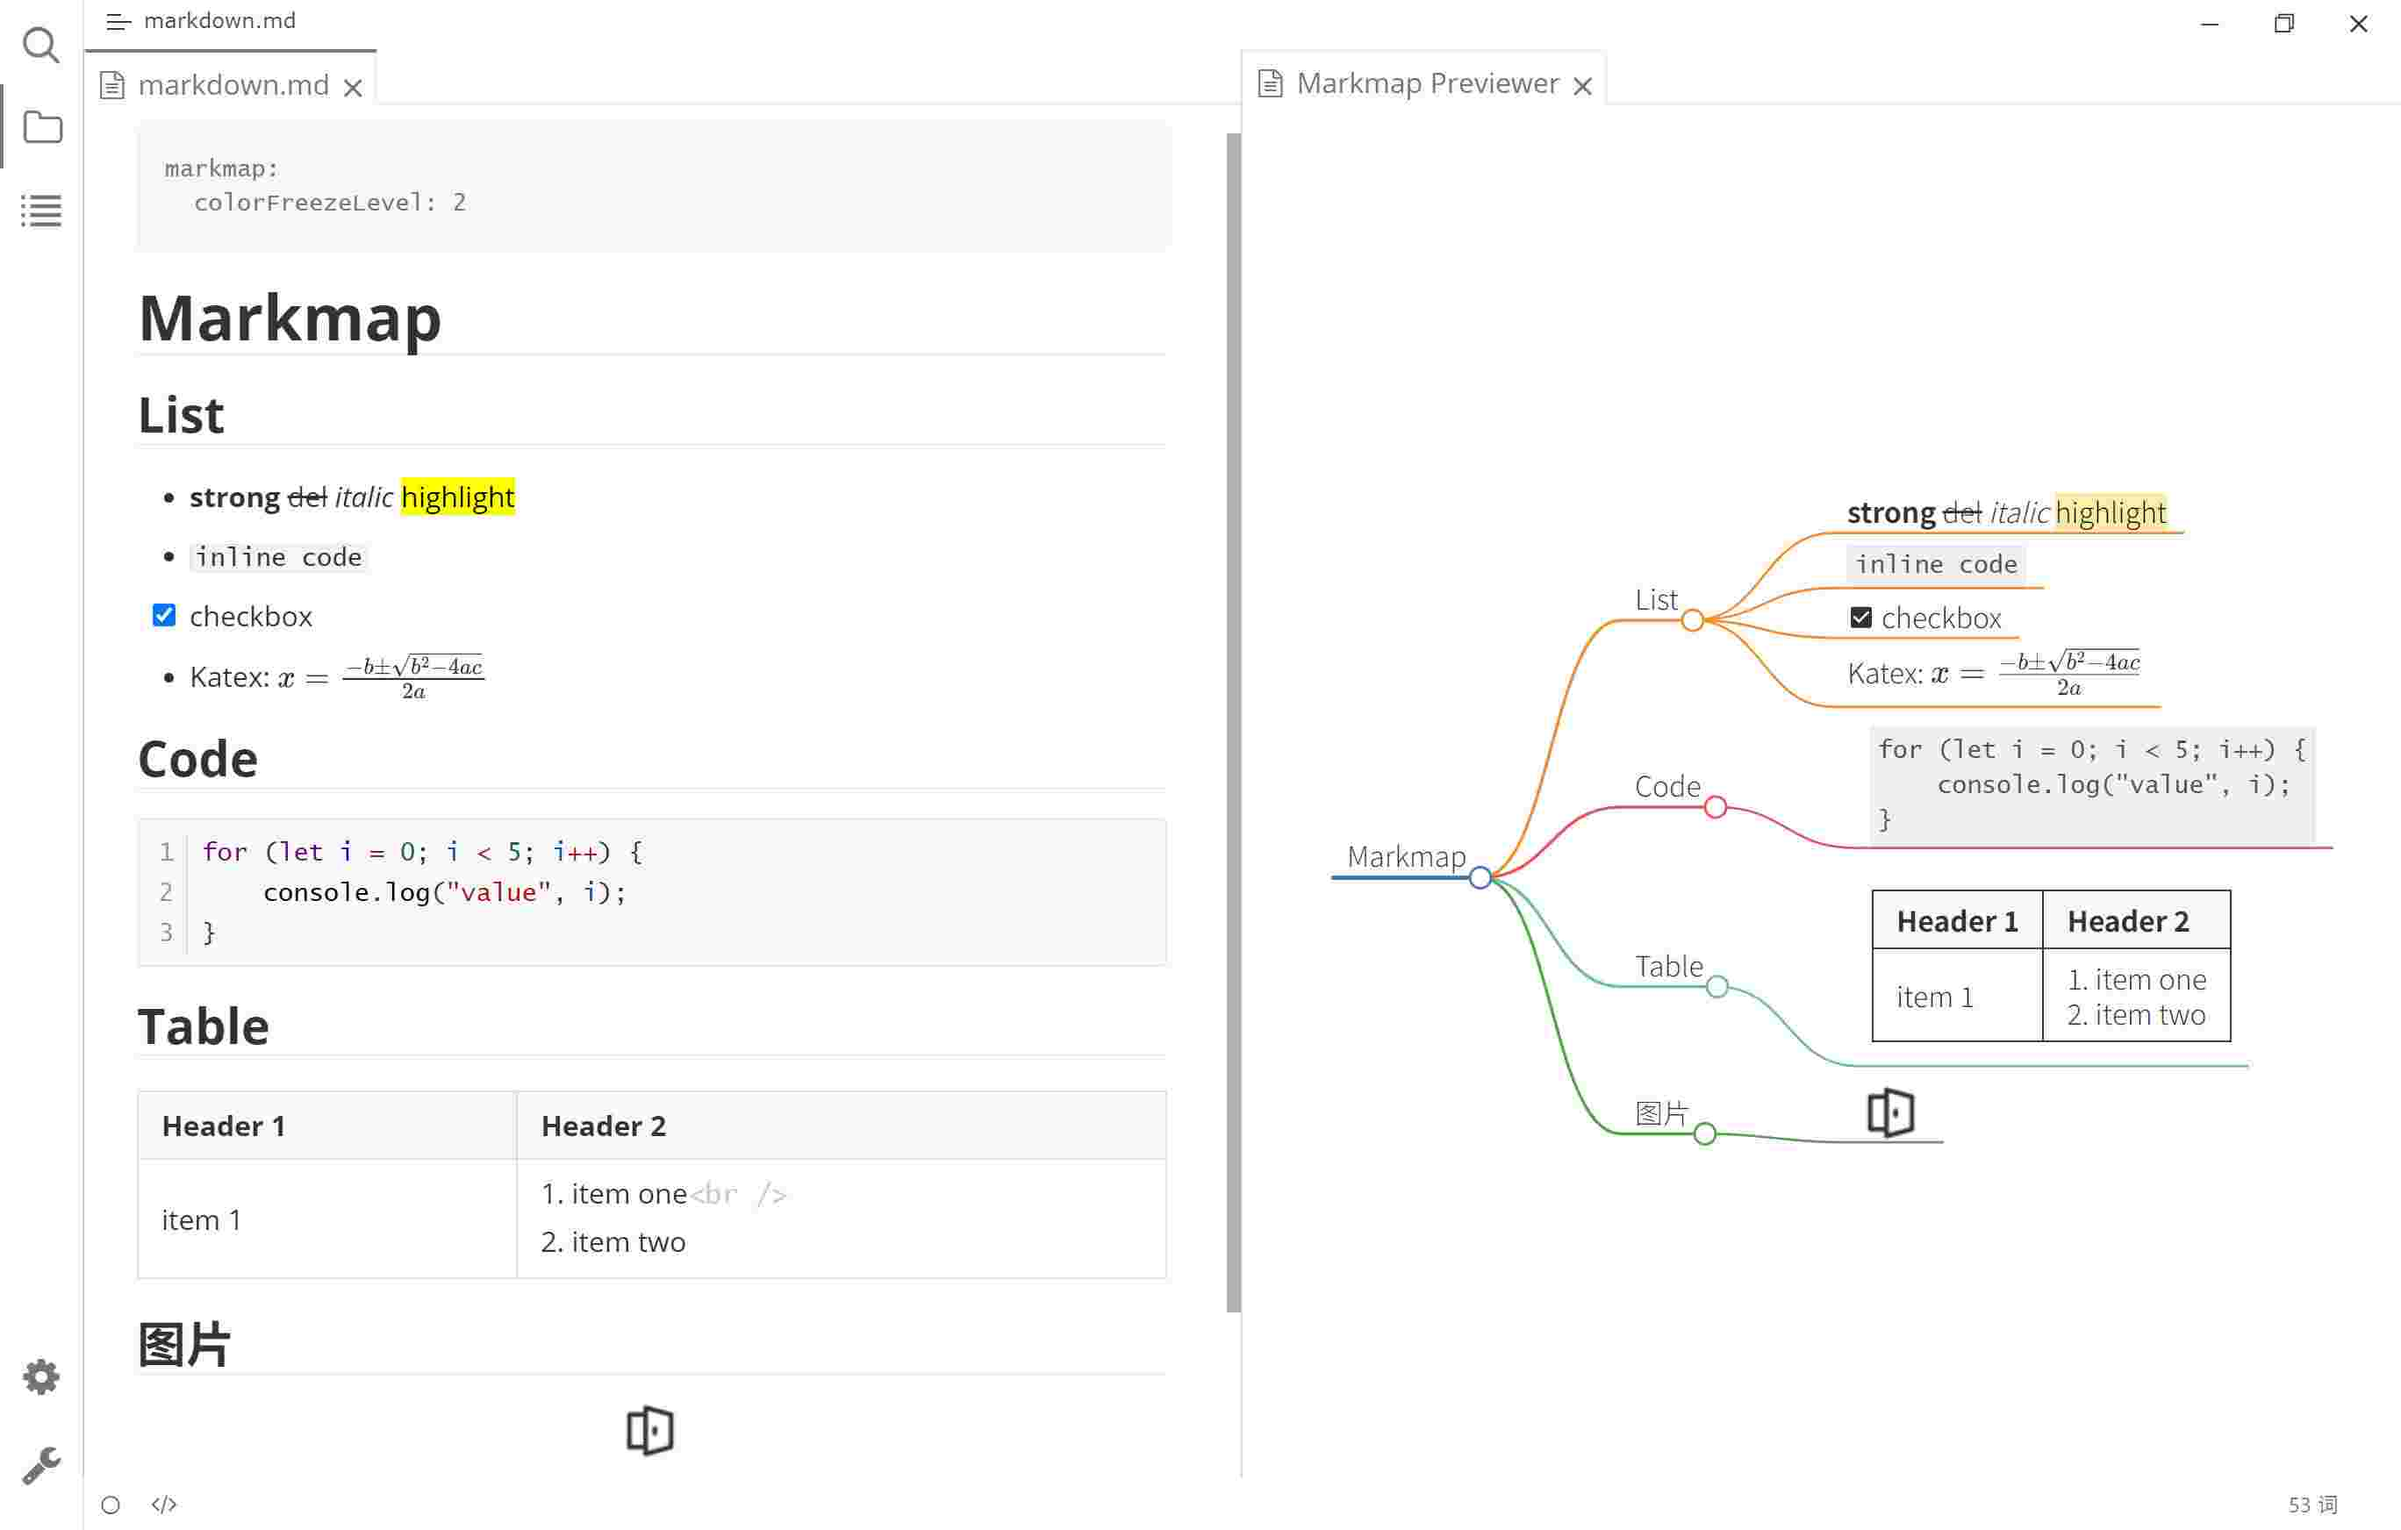
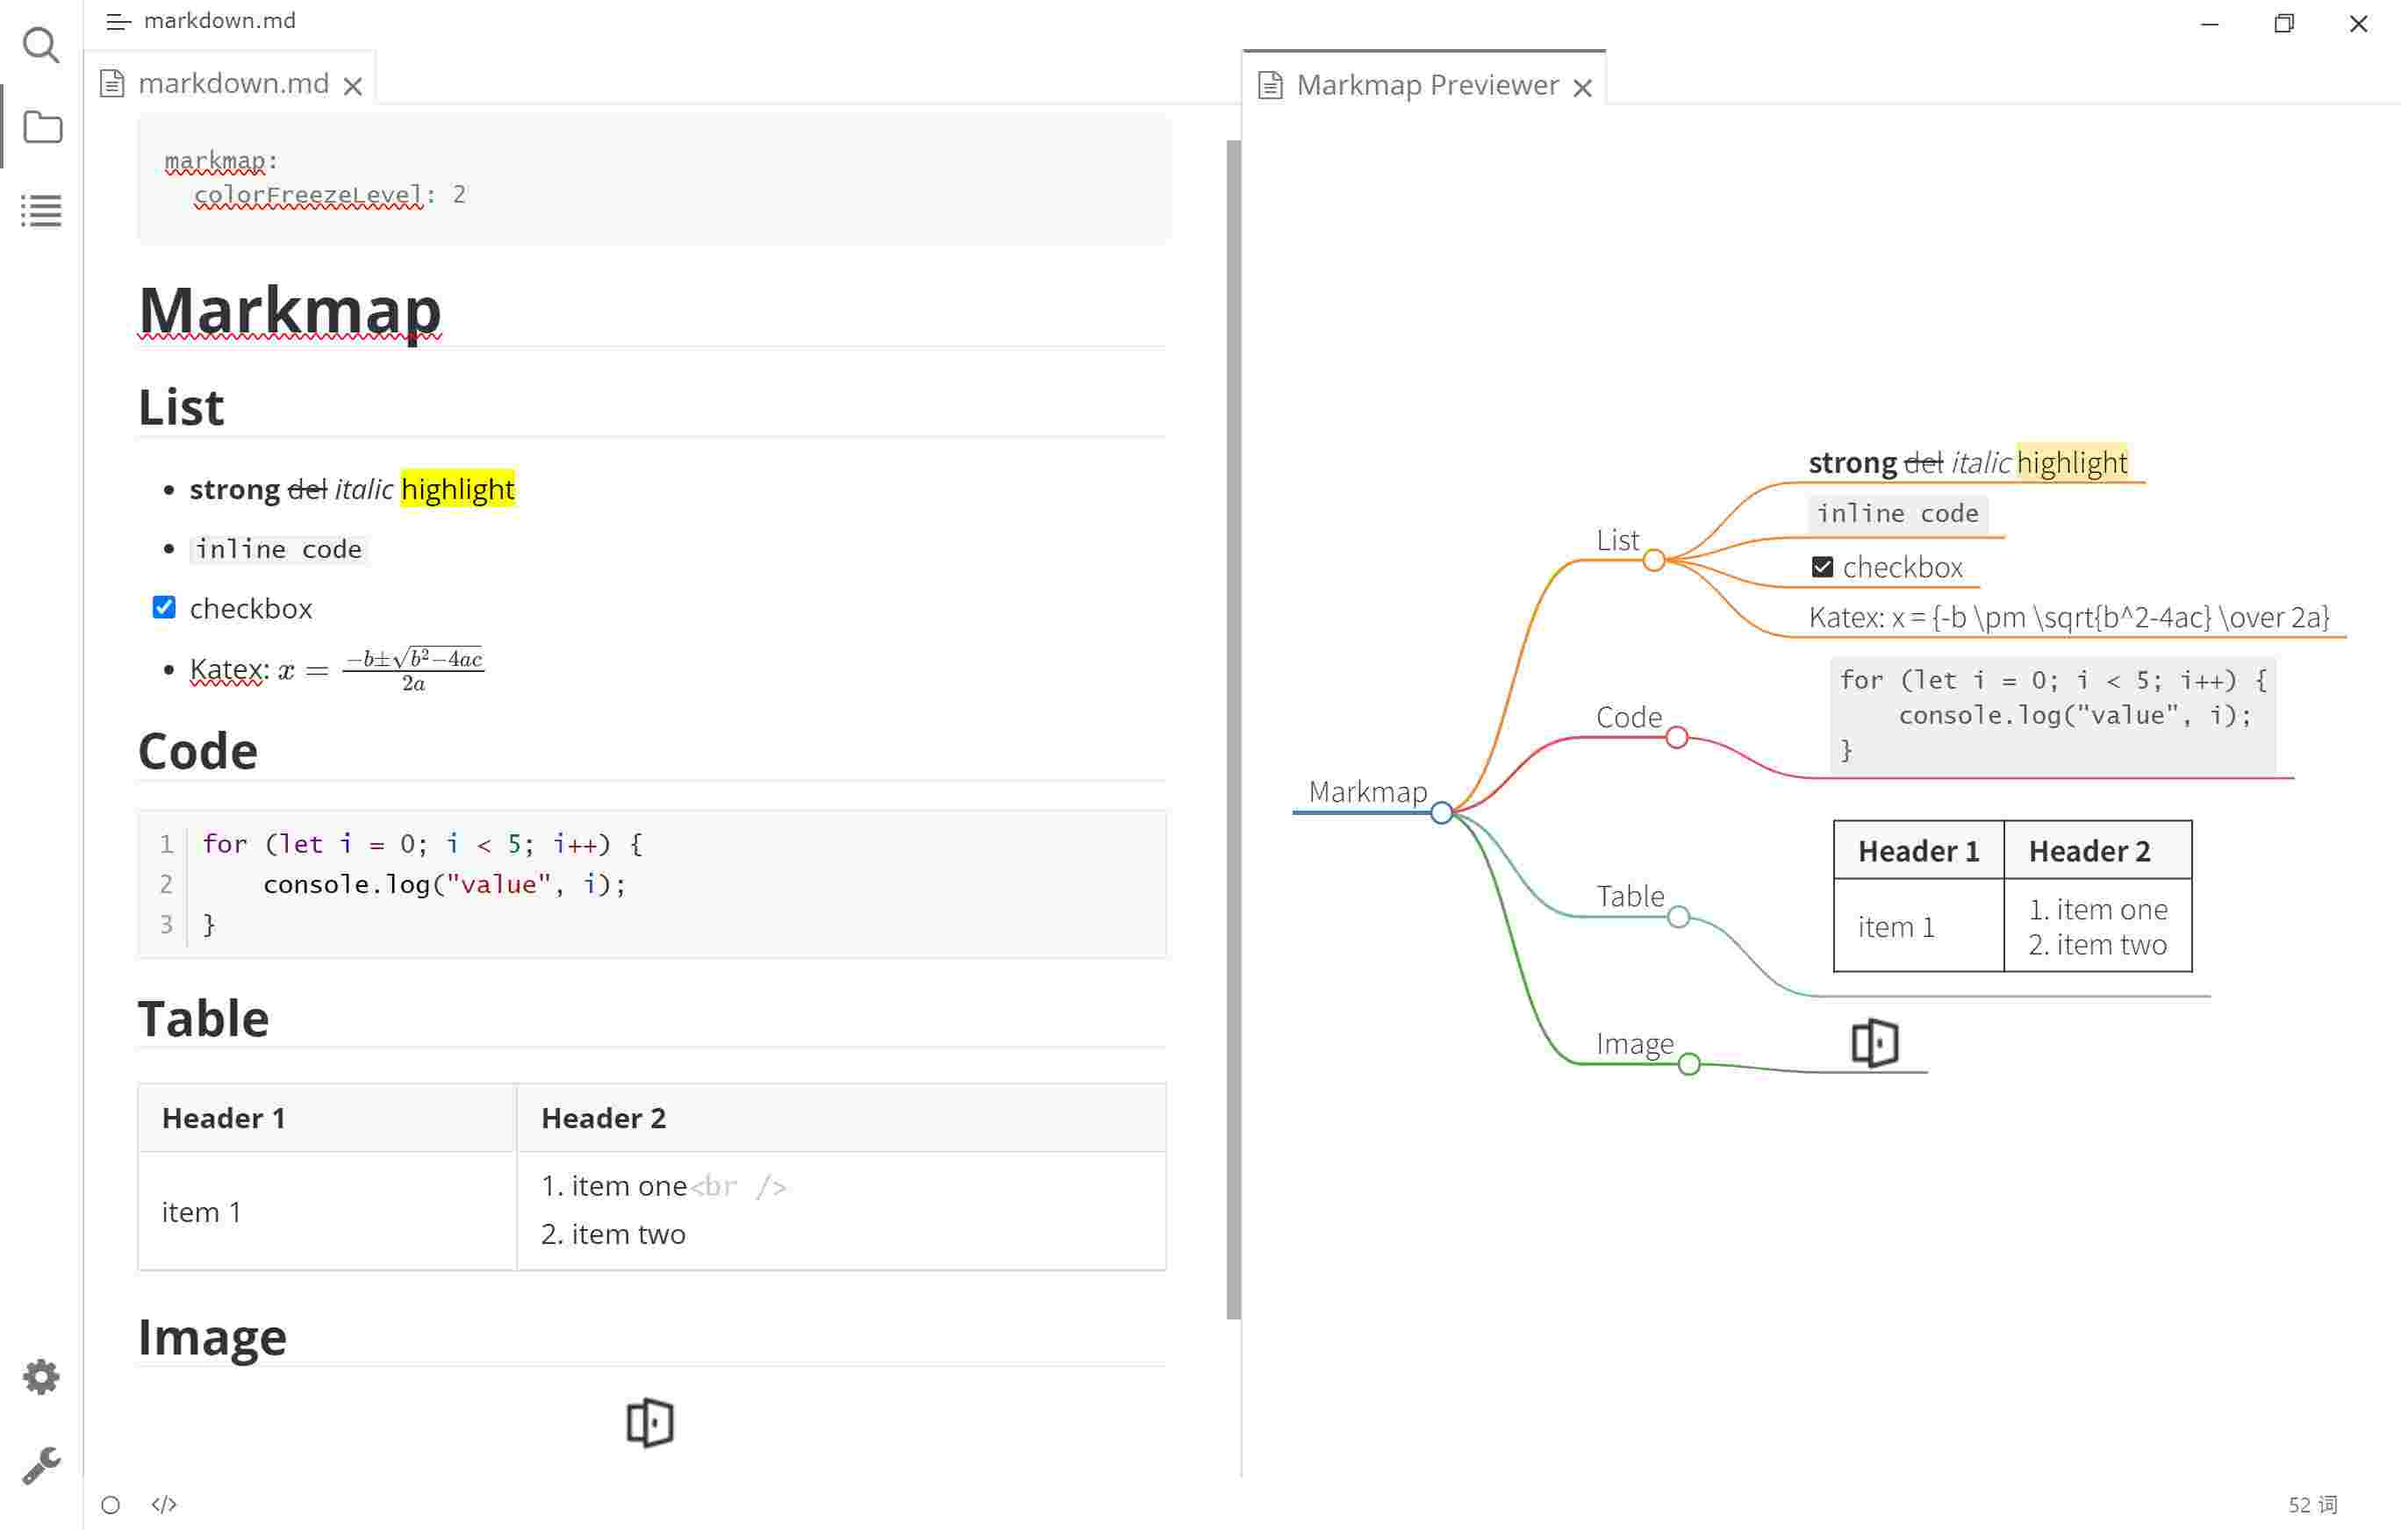
docs: update README

diff --git a/test/vault/markdown.md b/test/vault/markdown.md
@@ -27,6 +27,6 @@ for (let i = 0; i < 5; i++) {
 | item 1   | 1. item one<br />2. item two |
 
 
-## 图片
+## Image
 
 ![favicon](favicon.png)
